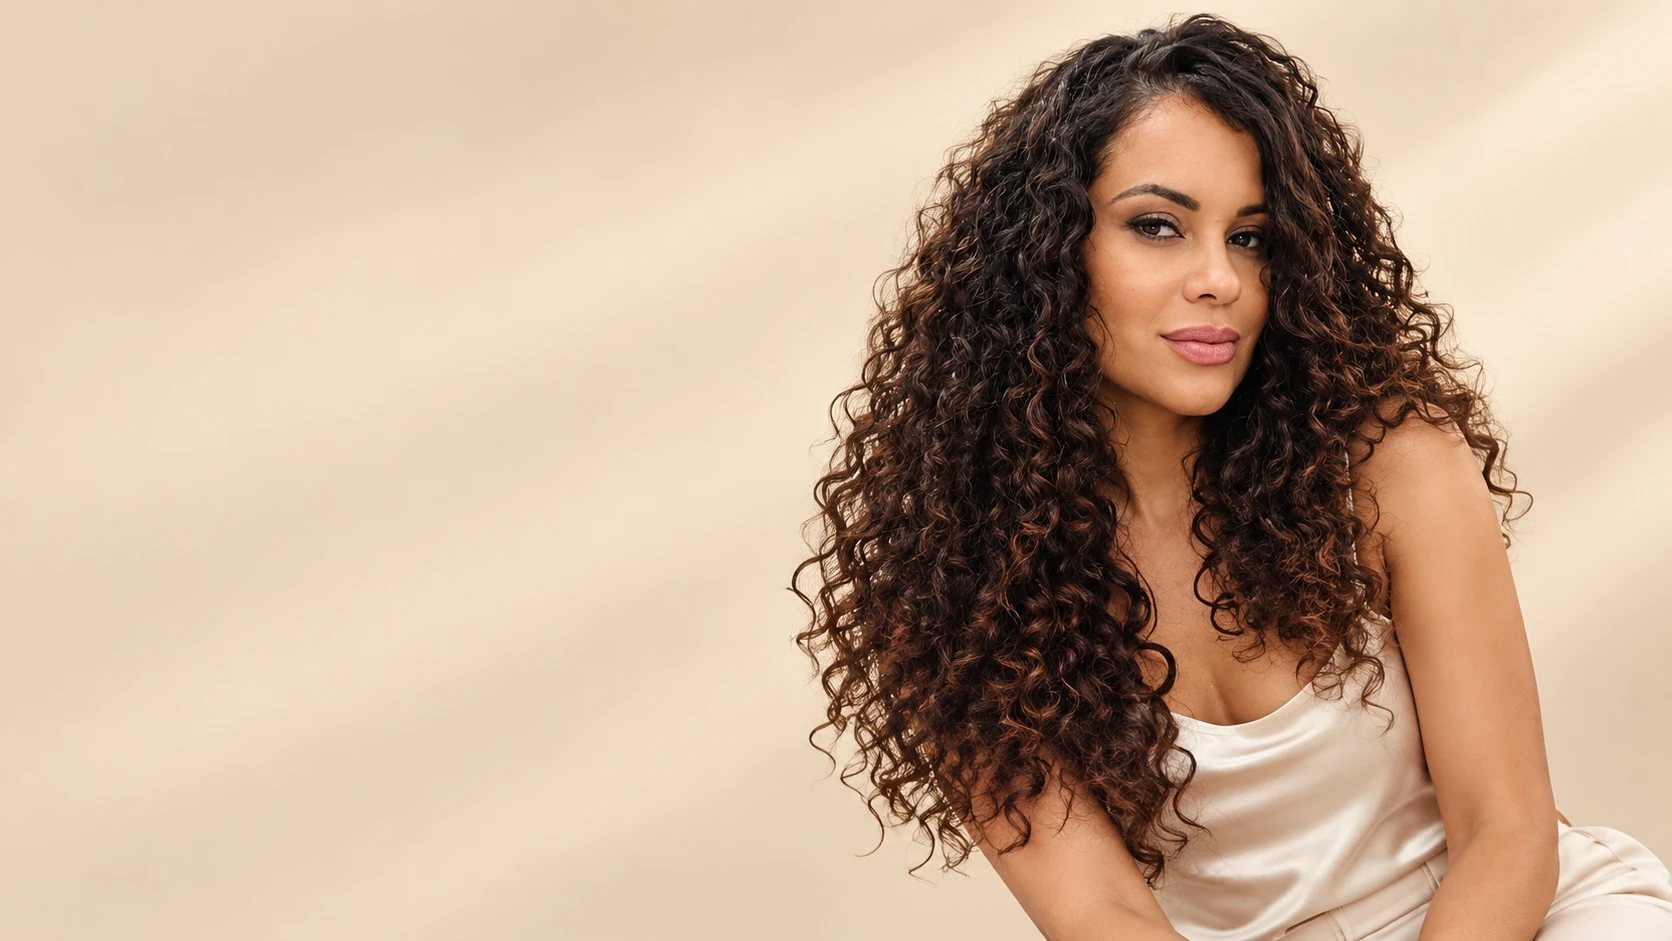
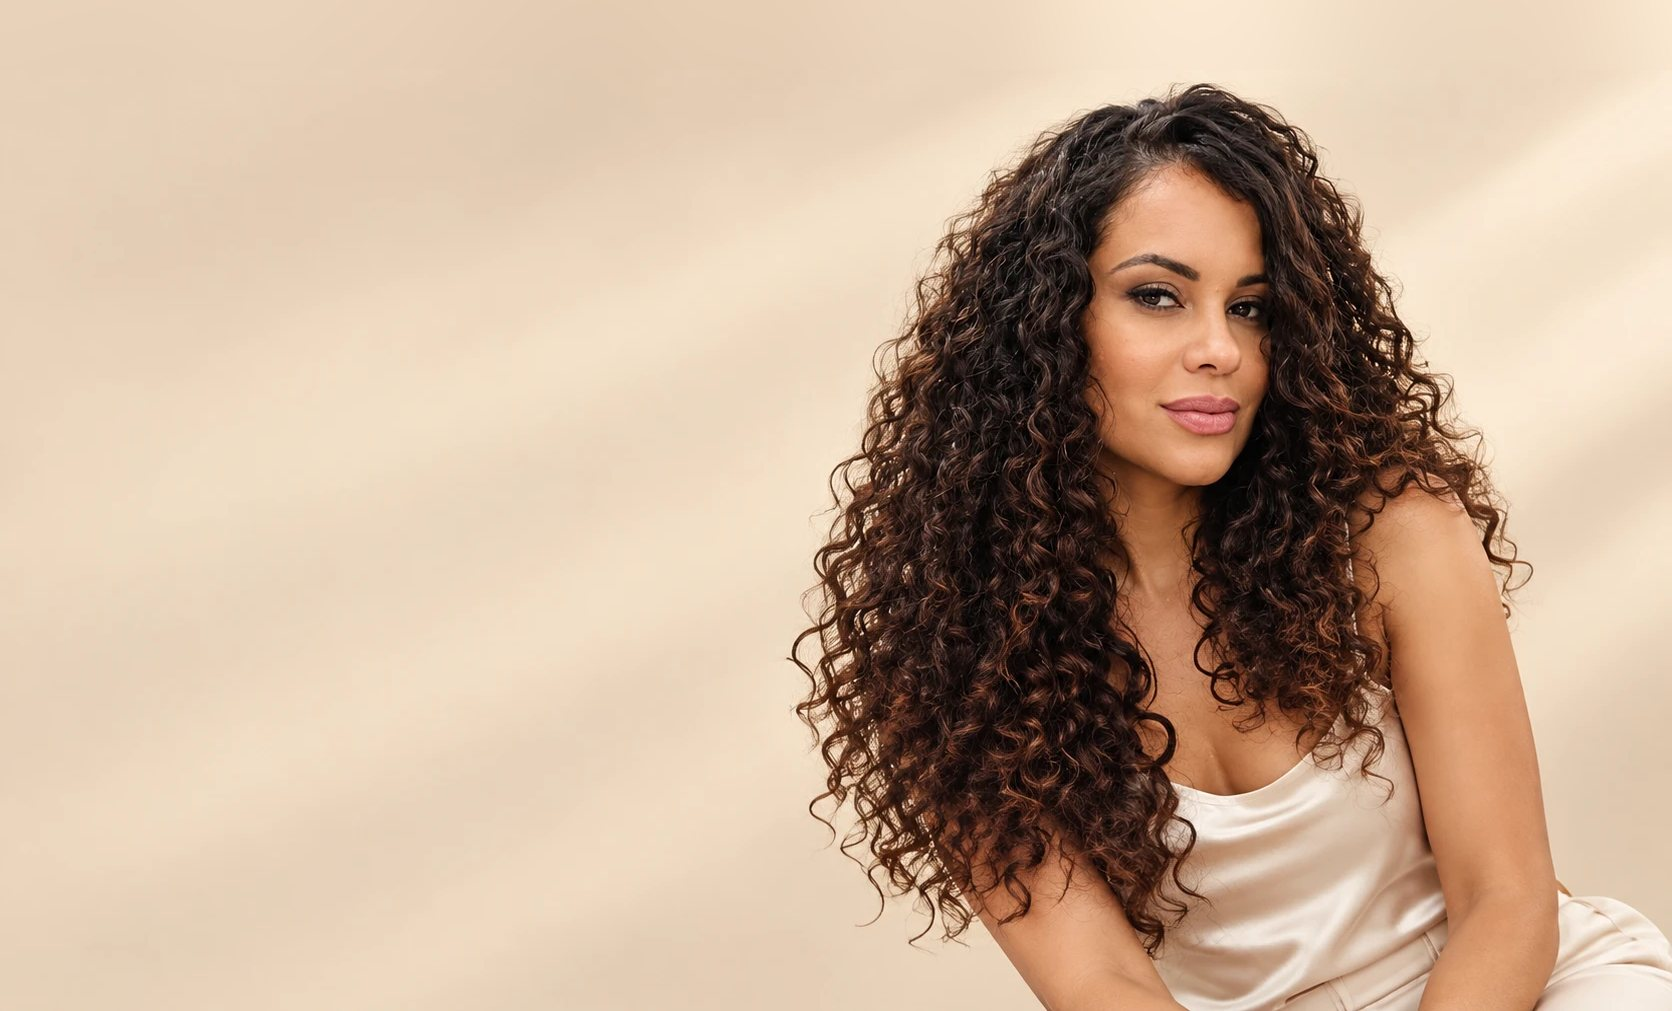
Ajusta enquadramento do novo slide para não cortar a cabeça no desktop
Foto ancorada no topo (campo desktopPosition por slide) e fundo bege
estendido acima do cabelo para dar folga.

Claude-Session: https://claude.ai/code/session_01UeQVbGaAje1mqAJFc8azaK

diff --git a/src/routes/index.tsx b/src/routes/index.tsx
@@ -24,6 +24,8 @@ type HeroSlide = {
   src: string;
   /** Imagem vertical opcional só para celular (até 639px). Ideal 1080×1350. */
   mobileSrc?: string;
+  /** Alinhamento opcional da foto no desktop (padrão: à direita, centralizada na vertical). */
+  desktopPosition?: string;
   alt: string;
   eyebrow: string;
   before: string;
@@ -38,6 +40,7 @@ const heroSlides: HeroSlide[] = [
   {
     src: hero3,
     mobileSrc: hero3Mobile,
+    desktopPosition: "sm:object-right-top",
     alt: "Mulher com cabelos cacheados longos e volumosos em fundo bege",
     eyebrow: "linha para cachos",
     before: "Cachos definidos, cheios de ",
@@ -110,7 +113,7 @@ function HeroCarousel() {
               width={1600}
               height={1104}
               aria-hidden={n !== i}
-              className={`absolute inset-0 h-full w-full object-cover transition-opacity duration-1000 ease-out object-[55%_center] sm:object-right ${n === i ? "opacity-100" : "opacity-0"}`}
+              className={`absolute inset-0 h-full w-full object-cover transition-opacity duration-1000 ease-out object-[55%_center] ${s.desktopPosition ?? "sm:object-right"} ${n === i ? "opacity-100" : "opacity-0"}`}
             />
           </picture>
         ))}
